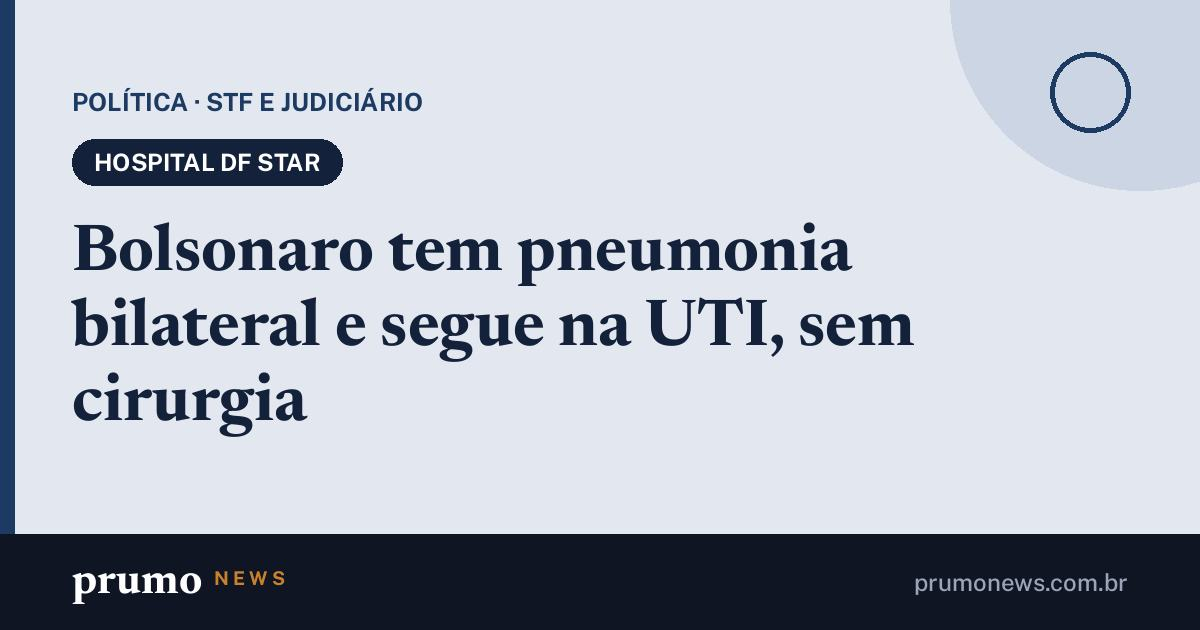
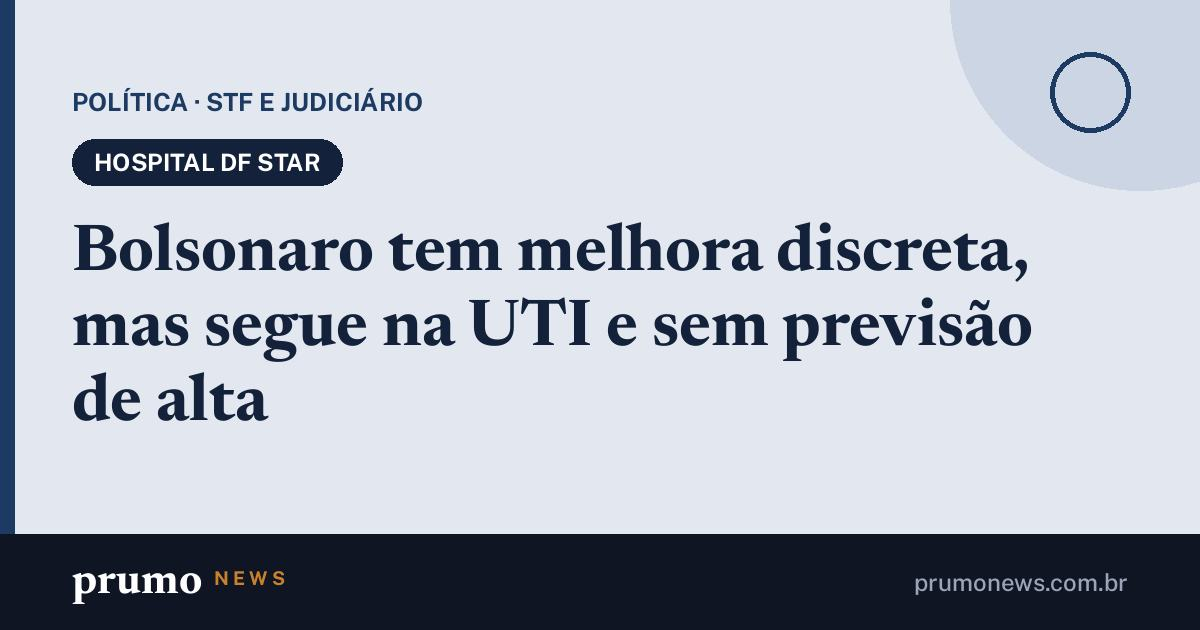
Páginas de compartilhamento 24/11 14h51

Changed region(s): [[0.0617, 0.3317, 0.8633, 0.6937]]

diff --git a/m/caso-master.html b/m/caso-master.html
@@ -3,20 +3,20 @@
 <head>
 <meta charset="utf-8">
 <meta name="viewport" content="width=device-width, initial-scale=1">
-<title>Novo pede ao STF afastamento de chefes da PF no caso Master · Prumo News</title>
-<meta name="description" content="O Novo diz que a troca de delegados do caso é &quot;clara anomalia institucional&quot;; a disputa pela relatoria segue no STF.">
-<link rel="canonical" href="https://prumonews.com.br/m/novo-pede-ao-stf-afastamento-de-chefes-da-pf-no-caso-master.html">
+<title>Nunes Marques é sorteado relator de pedido de Vorcaro contra Fachin no caso Master · Prumo News</title>
+<meta name="description" content="A defesa de Vorcaro questiona a competência da Presidência do STF e pede a revogação da prisão preventiva.">
+<link rel="canonical" href="https://prumonews.com.br/m/nunes-marques-e-sorteado-relator-de-pedido-de-vorcaro-contra-fachin-no.html">
 <meta property="og:type" content="article">
 <meta property="og:site_name" content="Prumo News">
 <meta property="og:locale" content="pt_BR">
-<meta property="og:title" content="Novo pede ao STF afastamento de chefes da PF no caso Master">
-<meta property="og:description" content="O Novo diz que a troca de delegados do caso é &quot;clara anomalia institucional&quot;; a disputa pela relatoria segue no STF.">
-<meta property="og:url" content="https://prumonews.com.br/m/novo-pede-ao-stf-afastamento-de-chefes-da-pf-no-caso-master.html">
-<meta property="og:image" content="https://upload.wikimedia.org/wikipedia/commons/thumb/7/73/Supremo_Tribunal_Federal_%281091707775%29.jpg/960px-Supremo_Tribunal_Federal_%281091707775%29.jpg">
+<meta property="og:title" content="Nunes Marques é sorteado relator de pedido de Vorcaro contra Fachin no caso Master">
+<meta property="og:description" content="A defesa de Vorcaro questiona a competência da Presidência do STF e pede a revogação da prisão preventiva.">
+<meta property="og:url" content="https://prumonews.com.br/m/nunes-marques-e-sorteado-relator-de-pedido-de-vorcaro-contra-fachin-no.html">
+<meta property="og:image" content="https://upload.wikimedia.org/wikipedia/commons/thumb/c/cc/CCJ_-_Comiss%C3%A3o_de_Constitui%C3%A7%C3%A3o%2C_Justi%C3%A7a_e_Cidadania_-_sabatina_Kassio_Nunes_Marques_01_%28cropped%29.jpg/960px-CCJ_-_Comiss%C3%A3o_de_Constitui%C3%A7%C3%A3o%2C_Justi%C3%A7a_e_Cidadania_-_sabatina_Kassio_Nunes_Marques_01_%28cropped%29.jpg">
 <meta name="twitter:card" content="summary_large_image">
 <meta name="theme-color" content="#0f1522">
 <script>location.replace("/#m=caso-master")</script>
 <style>body{margin:0;font:16px/1.5 system-ui,sans-serif;background:#0f1522;color:#e8ecf2;display:grid;place-items:center;min-height:100vh;padding:24px;box-sizing:border-box;text-align:center}a{color:#e6b673}</style>
 </head>
-<body><p><a href="/#m=caso-master">Novo pede ao STF afastamento de chefes da PF no caso Master</a><br>Abrindo no Prumo News…</p></body>
+<body><p><a href="/#m=caso-master">Nunes Marques é sorteado relator de pedido de Vorcaro contra Fachin no caso Master</a><br>Abrindo no Prumo News…</p></body>
 </html>

diff --git a/m/bolsonaro-hospital-dores-abdominais.html b/m/bolsonaro-hospital-dores-abdominais.html
@@ -3,16 +3,16 @@
 <head>
 <meta charset="utf-8">
 <meta name="viewport" content="width=device-width, initial-scale=1">
-<title>Bolsonaro tem pneumonia bilateral e segue na UTI, sem cirurgia · Prumo News</title>
-<meta name="description" content="Internado desde sexta (20), o ex-presidente segue estável, em tratamento clínico, e não há previsão de alta.">
-<link rel="canonical" href="https://prumonews.com.br/m/bolsonaro-tem-pneumonia-bilateral-e-segue-na-uti-sem-cirurgia.html">
+<title>Bolsonaro tem melhora discreta, mas segue na UTI e sem previsão de alta · Prumo News</title>
+<meta name="description" content="Internado desde sexta (20), o ex-presidente tem melhora discreta no boletim de terça (24), segue na UTI e não tem previsão de alta.">
+<link rel="canonical" href="https://prumonews.com.br/m/bolsonaro-tem-melhora-discreta-mas-segue-na-uti-e-sem-previsao-de-alta.html">
 <meta property="og:type" content="article">
 <meta property="og:site_name" content="Prumo News">
 <meta property="og:locale" content="pt_BR">
-<meta property="og:title" content="Bolsonaro tem pneumonia bilateral e segue na UTI, sem cirurgia">
-<meta property="og:description" content="Internado desde sexta (20), o ex-presidente segue estável, em tratamento clínico, e não há previsão de alta.">
-<meta property="og:url" content="https://prumonews.com.br/m/bolsonaro-tem-pneumonia-bilateral-e-segue-na-uti-sem-cirurgia.html">
-<meta property="og:image" content="https://prumonews.com.br/m/og/bolsonaro-hospital-dores-abdominais.jpg?v=149e2994c5">
+<meta property="og:title" content="Bolsonaro tem melhora discreta, mas segue na UTI e sem previsão de alta">
+<meta property="og:description" content="Internado desde sexta (20), o ex-presidente tem melhora discreta no boletim de terça (24), segue na UTI e não tem previsão de alta.">
+<meta property="og:url" content="https://prumonews.com.br/m/bolsonaro-tem-melhora-discreta-mas-segue-na-uti-e-sem-previsao-de-alta.html">
+<meta property="og:image" content="https://prumonews.com.br/m/og/bolsonaro-hospital-dores-abdominais.jpg?v=270f75d83e">
 <meta property="og:image:width" content="1200">
 <meta property="og:image:height" content="630">
 <meta name="twitter:card" content="summary_large_image">
@@ -20,5 +20,5 @@
 <script>location.replace("/#m=bolsonaro-hospital-dores-abdominais")</script>
 <style>body{margin:0;font:16px/1.5 system-ui,sans-serif;background:#0f1522;color:#e8ecf2;display:grid;place-items:center;min-height:100vh;padding:24px;box-sizing:border-box;text-align:center}a{color:#e6b673}</style>
 </head>
-<body><p><a href="/#m=bolsonaro-hospital-dores-abdominais">Bolsonaro tem pneumonia bilateral e segue na UTI, sem cirurgia</a><br>Abrindo no Prumo News…</p></body>
+<body><p><a href="/#m=bolsonaro-hospital-dores-abdominais">Bolsonaro tem melhora discreta, mas segue na UTI e sem previsão de alta</a><br>Abrindo no Prumo News…</p></body>
 </html>

diff --git a/m/decreto-6x1-adiado.html b/m/decreto-6x1-adiado.html
@@ -3,20 +3,20 @@
 <head>
 <meta charset="utf-8">
 <meta name="viewport" content="width=device-width, initial-scale=1">
-<title>Portaria do Trabalho detalha a 6×1; AGU pede ao STF que derrube liminar · Prumo News</title>
-<meta name="description" content="A portaria de segunda (23) trata de folgas, 12x36 e horas extras; a liminar de Dino mantém 42 horas em 16/12.">
-<link rel="canonical" href="https://prumonews.com.br/m/portaria-do-trabalho-detalha-a-6x1-agu-pede-ao-stf-que-derrube-liminar.html">
+<title>Marinho: &quot;ninguém vai morrer&quot; se comércio fechar um dia; fim da 6×1 vale em 16/12 · Prumo News</title>
+<meta name="description" content="Marinho rebate as empresas na terça (24); a escala 5x2 começa em 16/12 e a AGU pede ao STF que derrube a liminar de Dino.">
+<link rel="canonical" href="https://prumonews.com.br/m/marinho-ninguem-vai-morrer-se-comercio-fechar-um-dia-fim-da-6x1-vale.html">
 <meta property="og:type" content="article">
 <meta property="og:site_name" content="Prumo News">
 <meta property="og:locale" content="pt_BR">
-<meta property="og:title" content="Portaria do Trabalho detalha a 6×1; AGU pede ao STF que derrube liminar">
-<meta property="og:description" content="A portaria de segunda (23) trata de folgas, 12x36 e horas extras; a liminar de Dino mantém 42 horas em 16/12.">
-<meta property="og:url" content="https://prumonews.com.br/m/portaria-do-trabalho-detalha-a-6x1-agu-pede-ao-stf-que-derrube-liminar.html">
+<meta property="og:title" content="Marinho: &quot;ninguém vai morrer&quot; se comércio fechar um dia; fim da 6×1 vale em 16/12">
+<meta property="og:description" content="Marinho rebate as empresas na terça (24); a escala 5x2 começa em 16/12 e a AGU pede ao STF que derrube a liminar de Dino.">
+<meta property="og:url" content="https://prumonews.com.br/m/marinho-ninguem-vai-morrer-se-comercio-fechar-um-dia-fim-da-6x1-vale.html">
 <meta property="og:image" content="https://upload.wikimedia.org/wikipedia/commons/thumb/4/4a/Fachada_do_Pal%C3%A1cio_do_Planalto_-_49728086097.jpg/960px-Fachada_do_Pal%C3%A1cio_do_Planalto_-_49728086097.jpg">
 <meta name="twitter:card" content="summary_large_image">
 <meta name="theme-color" content="#0f1522">
 <script>location.replace("/#m=decreto-6x1-adiado")</script>
 <style>body{margin:0;font:16px/1.5 system-ui,sans-serif;background:#0f1522;color:#e8ecf2;display:grid;place-items:center;min-height:100vh;padding:24px;box-sizing:border-box;text-align:center}a{color:#e6b673}</style>
 </head>
-<body><p><a href="/#m=decreto-6x1-adiado">Portaria do Trabalho detalha a 6×1; AGU pede ao STF que derrube liminar</a><br>Abrindo no Prumo News…</p></body>
+<body><p><a href="/#m=decreto-6x1-adiado">Marinho: &quot;ninguém vai morrer&quot; se comércio fechar um dia; fim da 6×1 vale em 16/12</a><br>Abrindo no Prumo News…</p></body>
 </html>

diff --git a/m/ajuste-fiscal-lula-4.html b/m/ajuste-fiscal-lula-4.html
@@ -3,16 +3,16 @@
 <head>
 <meta charset="utf-8">
 <meta name="viewport" content="width=device-width, initial-scale=1">
-<title>Câmara aprova ajuste fiscal por 353 a 128; texto vai à sanção · Prumo News</title>
+<title>Câmara aprova ajuste fiscal por 353 a 128; pacote limita gastos e vai à sanção · Prumo News</title>
 <meta name="description" content="O texto do Senado passou sem alterações e segue para a sanção; parte da bancada do PT não votou a favor.">
-<link rel="canonical" href="https://prumonews.com.br/m/camara-aprova-ajuste-fiscal-por-353-a-128-texto-vai-a-sancao.html">
+<link rel="canonical" href="https://prumonews.com.br/m/camara-aprova-ajuste-fiscal-por-353-a-128-pacote-limita-gastos-e-vai-a.html">
 <meta property="og:type" content="article">
 <meta property="og:site_name" content="Prumo News">
 <meta property="og:locale" content="pt_BR">
-<meta property="og:title" content="Câmara aprova ajuste fiscal por 353 a 128; texto vai à sanção">
+<meta property="og:title" content="Câmara aprova ajuste fiscal por 353 a 128; pacote limita gastos e vai à sanção">
 <meta property="og:description" content="O texto do Senado passou sem alterações e segue para a sanção; parte da bancada do PT não votou a favor.">
-<meta property="og:url" content="https://prumonews.com.br/m/camara-aprova-ajuste-fiscal-por-353-a-128-texto-vai-a-sancao.html">
-<meta property="og:image" content="https://prumonews.com.br/m/og/ajuste-fiscal-lula-4.jpg?v=03558c6164">
+<meta property="og:url" content="https://prumonews.com.br/m/camara-aprova-ajuste-fiscal-por-353-a-128-pacote-limita-gastos-e-vai-a.html">
+<meta property="og:image" content="https://prumonews.com.br/m/og/ajuste-fiscal-lula-4.jpg?v=403e5b6f56">
 <meta property="og:image:width" content="1200">
 <meta property="og:image:height" content="630">
 <meta name="twitter:card" content="summary_large_image">
@@ -20,5 +20,5 @@
 <script>location.replace("/#m=ajuste-fiscal-lula-4")</script>
 <style>body{margin:0;font:16px/1.5 system-ui,sans-serif;background:#0f1522;color:#e8ecf2;display:grid;place-items:center;min-height:100vh;padding:24px;box-sizing:border-box;text-align:center}a{color:#e6b673}</style>
 </head>
-<body><p><a href="/#m=ajuste-fiscal-lula-4">Câmara aprova ajuste fiscal por 353 a 128; texto vai à sanção</a><br>Abrindo no Prumo News…</p></body>
+<body><p><a href="/#m=ajuste-fiscal-lula-4">Câmara aprova ajuste fiscal por 353 a 128; pacote limita gastos e vai à sanção</a><br>Abrindo no Prumo News…</p></body>
 </html>

diff --git a/m/senado-estatuto-aprendiz.html b/m/senado-estatuto-aprendiz.html
@@ -3,20 +3,20 @@
 <head>
 <meta charset="utf-8">
 <meta name="viewport" content="width=device-width, initial-scale=1">
-<title>Senado tem na pauta o Estatuto do Aprendiz e o Plano de Cultura · Prumo News</title>
+<title>Estatuto do Aprendiz e Plano de Cultura entram na pauta do Senado de terça (24) · Prumo News</title>
 <meta name="description" content="O Estatuto do Aprendiz muda a contratação de jovens de 14 a 24 anos incompletos; o plano de cultura define metas até 2036.">
-<link rel="canonical" href="https://prumonews.com.br/m/senado-tem-na-pauta-o-estatuto-do-aprendiz-e-o-plano-de-cultura.html">
+<link rel="canonical" href="https://prumonews.com.br/m/estatuto-do-aprendiz-e-plano-de-cultura-entram-na-pauta-do-senado-de.html">
 <meta property="og:type" content="article">
 <meta property="og:site_name" content="Prumo News">
 <meta property="og:locale" content="pt_BR">
-<meta property="og:title" content="Senado tem na pauta o Estatuto do Aprendiz e o Plano de Cultura">
+<meta property="og:title" content="Estatuto do Aprendiz e Plano de Cultura entram na pauta do Senado de terça (24)">
 <meta property="og:description" content="O Estatuto do Aprendiz muda a contratação de jovens de 14 a 24 anos incompletos; o plano de cultura define metas até 2036.">
-<meta property="og:url" content="https://prumonews.com.br/m/senado-tem-na-pauta-o-estatuto-do-aprendiz-e-o-plano-de-cultura.html">
+<meta property="og:url" content="https://prumonews.com.br/m/estatuto-do-aprendiz-e-plano-de-cultura-entram-na-pauta-do-senado-de.html">
 <meta property="og:image" content="https://upload.wikimedia.org/wikipedia/commons/thumb/1/12/Plen%C3%A1rio_do_Senado_%2854300785080%29.jpg/960px-Plen%C3%A1rio_do_Senado_%2854300785080%29.jpg">
 <meta name="twitter:card" content="summary_large_image">
 <meta name="theme-color" content="#0f1522">
 <script>location.replace("/#m=senado-estatuto-aprendiz")</script>
 <style>body{margin:0;font:16px/1.5 system-ui,sans-serif;background:#0f1522;color:#e8ecf2;display:grid;place-items:center;min-height:100vh;padding:24px;box-sizing:border-box;text-align:center}a{color:#e6b673}</style>
 </head>
-<body><p><a href="/#m=senado-estatuto-aprendiz">Senado tem na pauta o Estatuto do Aprendiz e o Plano de Cultura</a><br>Abrindo no Prumo News…</p></body>
+<body><p><a href="/#m=senado-estatuto-aprendiz">Estatuto do Aprendiz e Plano de Cultura entram na pauta do Senado de terça (24)</a><br>Abrindo no Prumo News…</p></body>
 </html>

diff --git a/m/nunes-marques-e-sorteado-relator-de-pedido-de-vorcaro-contra-fachin-no.html b/m/nunes-marques-e-sorteado-relator-de-pedido-de-vorcaro-contra-fachin-no.html
@@ -1,0 +1,22 @@
+<!doctype html>
+<html lang="pt-BR">
+<head>
+<meta charset="utf-8">
+<meta name="viewport" content="width=device-width, initial-scale=1">
+<title>Nunes Marques é sorteado relator de pedido de Vorcaro contra Fachin no caso Master · Prumo News</title>
+<meta name="description" content="A defesa de Vorcaro questiona a competência da Presidência do STF e pede a revogação da prisão preventiva.">
+<link rel="canonical" href="https://prumonews.com.br/m/nunes-marques-e-sorteado-relator-de-pedido-de-vorcaro-contra-fachin-no.html">
+<meta property="og:type" content="article">
+<meta property="og:site_name" content="Prumo News">
+<meta property="og:locale" content="pt_BR">
+<meta property="og:title" content="Nunes Marques é sorteado relator de pedido de Vorcaro contra Fachin no caso Master">
+<meta property="og:description" content="A defesa de Vorcaro questiona a competência da Presidência do STF e pede a revogação da prisão preventiva.">
+<meta property="og:url" content="https://prumonews.com.br/m/nunes-marques-e-sorteado-relator-de-pedido-de-vorcaro-contra-fachin-no.html">
+<meta property="og:image" content="https://upload.wikimedia.org/wikipedia/commons/thumb/c/cc/CCJ_-_Comiss%C3%A3o_de_Constitui%C3%A7%C3%A3o%2C_Justi%C3%A7a_e_Cidadania_-_sabatina_Kassio_Nunes_Marques_01_%28cropped%29.jpg/960px-CCJ_-_Comiss%C3%A3o_de_Constitui%C3%A7%C3%A3o%2C_Justi%C3%A7a_e_Cidadania_-_sabatina_Kassio_Nunes_Marques_01_%28cropped%29.jpg">
+<meta name="twitter:card" content="summary_large_image">
+<meta name="theme-color" content="#0f1522">
+<script>location.replace("/#m=caso-master")</script>
+<style>body{margin:0;font:16px/1.5 system-ui,sans-serif;background:#0f1522;color:#e8ecf2;display:grid;place-items:center;min-height:100vh;padding:24px;box-sizing:border-box;text-align:center}a{color:#e6b673}</style>
+</head>
+<body><p><a href="/#m=caso-master">Nunes Marques é sorteado relator de pedido de Vorcaro contra Fachin no caso Master</a><br>Abrindo no Prumo News…</p></body>
+</html>

diff --git a/m/cni-intencao-investimento-industria.html b/m/cni-intencao-investimento-industria.html
@@ -1,0 +1,22 @@
+<!doctype html>
+<html lang="pt-BR">
+<head>
+<meta charset="utf-8">
+<meta name="viewport" content="width=device-width, initial-scale=1">
+<title>Intenção de investimento da indústria cai ao menor nível em seis anos · Prumo News</title>
+<meta name="description" content="O pessimismo dos empresários aumentou, segundo a CNI.">
+<link rel="canonical" href="https://prumonews.com.br/m/intencao-de-investimento-da-industria-cai-ao-menor-nivel-em-seis-anos.html">
+<meta property="og:type" content="article">
+<meta property="og:site_name" content="Prumo News">
+<meta property="og:locale" content="pt_BR">
+<meta property="og:title" content="Intenção de investimento da indústria cai ao menor nível em seis anos">
+<meta property="og:description" content="O pessimismo dos empresários aumentou, segundo a CNI.">
+<meta property="og:url" content="https://prumonews.com.br/m/intencao-de-investimento-da-industria-cai-ao-menor-nivel-em-seis-anos.html">
+<meta property="og:image" content="https://upload.wikimedia.org/wikipedia/commons/thumb/6/64/02.06.2023_-_Cerim%C3%B4nia_de_inaugura%C3%A7%C3%A3o_e_visita_%C3%A0_nova_linha_de_produ%C3%A7%C3%A3o_da_f%C3%A1brica_da_Eletra_%2852946820437%29.jpg/960px-02.06.2023_-_Cerim%C3%B4nia_de_inaugura%C3%A7%C3%A3o_e_visita_%C3%A0_nova_linha_de_produ%C3%A7%C3%A3o_da_f%C3%A1brica_da_Eletra_%2852946820437%29.jpg">
+<meta name="twitter:card" content="summary_large_image">
+<meta name="theme-color" content="#0f1522">
+<script>location.replace("/#m=cni-intencao-investimento-industria")</script>
+<style>body{margin:0;font:16px/1.5 system-ui,sans-serif;background:#0f1522;color:#e8ecf2;display:grid;place-items:center;min-height:100vh;padding:24px;box-sizing:border-box;text-align:center}a{color:#e6b673}</style>
+</head>
+<body><p><a href="/#m=cni-intencao-investimento-industria">Intenção de investimento da indústria cai ao menor nível em seis anos</a><br>Abrindo no Prumo News…</p></body>
+</html>

diff --git a/m/intencao-de-investimento-da-industria-cai-ao-menor-nivel-em-seis-anos.html b/m/intencao-de-investimento-da-industria-cai-ao-menor-nivel-em-seis-anos.html
@@ -1,0 +1,22 @@
+<!doctype html>
+<html lang="pt-BR">
+<head>
+<meta charset="utf-8">
+<meta name="viewport" content="width=device-width, initial-scale=1">
+<title>Intenção de investimento da indústria cai ao menor nível em seis anos · Prumo News</title>
+<meta name="description" content="O pessimismo dos empresários aumentou, segundo a CNI.">
+<link rel="canonical" href="https://prumonews.com.br/m/intencao-de-investimento-da-industria-cai-ao-menor-nivel-em-seis-anos.html">
+<meta property="og:type" content="article">
+<meta property="og:site_name" content="Prumo News">
+<meta property="og:locale" content="pt_BR">
+<meta property="og:title" content="Intenção de investimento da indústria cai ao menor nível em seis anos">
+<meta property="og:description" content="O pessimismo dos empresários aumentou, segundo a CNI.">
+<meta property="og:url" content="https://prumonews.com.br/m/intencao-de-investimento-da-industria-cai-ao-menor-nivel-em-seis-anos.html">
+<meta property="og:image" content="https://upload.wikimedia.org/wikipedia/commons/thumb/6/64/02.06.2023_-_Cerim%C3%B4nia_de_inaugura%C3%A7%C3%A3o_e_visita_%C3%A0_nova_linha_de_produ%C3%A7%C3%A3o_da_f%C3%A1brica_da_Eletra_%2852946820437%29.jpg/960px-02.06.2023_-_Cerim%C3%B4nia_de_inaugura%C3%A7%C3%A3o_e_visita_%C3%A0_nova_linha_de_produ%C3%A7%C3%A3o_da_f%C3%A1brica_da_Eletra_%2852946820437%29.jpg">
+<meta name="twitter:card" content="summary_large_image">
+<meta name="theme-color" content="#0f1522">
+<script>location.replace("/#m=cni-intencao-investimento-industria")</script>
+<style>body{margin:0;font:16px/1.5 system-ui,sans-serif;background:#0f1522;color:#e8ecf2;display:grid;place-items:center;min-height:100vh;padding:24px;box-sizing:border-box;text-align:center}a{color:#e6b673}</style>
+</head>
+<body><p><a href="/#m=cni-intencao-investimento-industria">Intenção de investimento da indústria cai ao menor nível em seis anos</a><br>Abrindo no Prumo News…</p></body>
+</html>

diff --git a/m/bolsonaro-tem-melhora-discreta-mas-segue-na-uti-e-sem-previsao-de-alta.html b/m/bolsonaro-tem-melhora-discreta-mas-segue-na-uti-e-sem-previsao-de-alta.html
@@ -1,0 +1,24 @@
+<!doctype html>
+<html lang="pt-BR">
+<head>
+<meta charset="utf-8">
+<meta name="viewport" content="width=device-width, initial-scale=1">
+<title>Bolsonaro tem melhora discreta, mas segue na UTI e sem previsão de alta · Prumo News</title>
+<meta name="description" content="Internado desde sexta (20), o ex-presidente tem melhora discreta no boletim de terça (24), segue na UTI e não tem previsão de alta.">
+<link rel="canonical" href="https://prumonews.com.br/m/bolsonaro-tem-melhora-discreta-mas-segue-na-uti-e-sem-previsao-de-alta.html">
+<meta property="og:type" content="article">
+<meta property="og:site_name" content="Prumo News">
+<meta property="og:locale" content="pt_BR">
+<meta property="og:title" content="Bolsonaro tem melhora discreta, mas segue na UTI e sem previsão de alta">
+<meta property="og:description" content="Internado desde sexta (20), o ex-presidente tem melhora discreta no boletim de terça (24), segue na UTI e não tem previsão de alta.">
+<meta property="og:url" content="https://prumonews.com.br/m/bolsonaro-tem-melhora-discreta-mas-segue-na-uti-e-sem-previsao-de-alta.html">
+<meta property="og:image" content="https://prumonews.com.br/m/og/bolsonaro-hospital-dores-abdominais.jpg?v=270f75d83e">
+<meta property="og:image:width" content="1200">
+<meta property="og:image:height" content="630">
+<meta name="twitter:card" content="summary_large_image">
+<meta name="theme-color" content="#0f1522">
+<script>location.replace("/#m=bolsonaro-hospital-dores-abdominais")</script>
+<style>body{margin:0;font:16px/1.5 system-ui,sans-serif;background:#0f1522;color:#e8ecf2;display:grid;place-items:center;min-height:100vh;padding:24px;box-sizing:border-box;text-align:center}a{color:#e6b673}</style>
+</head>
+<body><p><a href="/#m=bolsonaro-hospital-dores-abdominais">Bolsonaro tem melhora discreta, mas segue na UTI e sem previsão de alta</a><br>Abrindo no Prumo News…</p></body>
+</html>

diff --git a/m/marinho-ninguem-vai-morrer-se-comercio-fechar-um-dia-fim-da-6x1-vale.html b/m/marinho-ninguem-vai-morrer-se-comercio-fechar-um-dia-fim-da-6x1-vale.html
@@ -1,0 +1,22 @@
+<!doctype html>
+<html lang="pt-BR">
+<head>
+<meta charset="utf-8">
+<meta name="viewport" content="width=device-width, initial-scale=1">
+<title>Marinho: &quot;ninguém vai morrer&quot; se comércio fechar um dia; fim da 6×1 vale em 16/12 · Prumo News</title>
+<meta name="description" content="Marinho rebate as empresas na terça (24); a escala 5x2 começa em 16/12 e a AGU pede ao STF que derrube a liminar de Dino.">
+<link rel="canonical" href="https://prumonews.com.br/m/marinho-ninguem-vai-morrer-se-comercio-fechar-um-dia-fim-da-6x1-vale.html">
+<meta property="og:type" content="article">
+<meta property="og:site_name" content="Prumo News">
+<meta property="og:locale" content="pt_BR">
+<meta property="og:title" content="Marinho: &quot;ninguém vai morrer&quot; se comércio fechar um dia; fim da 6×1 vale em 16/12">
+<meta property="og:description" content="Marinho rebate as empresas na terça (24); a escala 5x2 começa em 16/12 e a AGU pede ao STF que derrube a liminar de Dino.">
+<meta property="og:url" content="https://prumonews.com.br/m/marinho-ninguem-vai-morrer-se-comercio-fechar-um-dia-fim-da-6x1-vale.html">
+<meta property="og:image" content="https://upload.wikimedia.org/wikipedia/commons/thumb/4/4a/Fachada_do_Pal%C3%A1cio_do_Planalto_-_49728086097.jpg/960px-Fachada_do_Pal%C3%A1cio_do_Planalto_-_49728086097.jpg">
+<meta name="twitter:card" content="summary_large_image">
+<meta name="theme-color" content="#0f1522">
+<script>location.replace("/#m=decreto-6x1-adiado")</script>
+<style>body{margin:0;font:16px/1.5 system-ui,sans-serif;background:#0f1522;color:#e8ecf2;display:grid;place-items:center;min-height:100vh;padding:24px;box-sizing:border-box;text-align:center}a{color:#e6b673}</style>
+</head>
+<body><p><a href="/#m=decreto-6x1-adiado">Marinho: &quot;ninguém vai morrer&quot; se comércio fechar um dia; fim da 6×1 vale em 16/12</a><br>Abrindo no Prumo News…</p></body>
+</html>

diff --git a/m/estatuto-do-aprendiz-e-plano-de-cultura-entram-na-pauta-do-senado-de.html b/m/estatuto-do-aprendiz-e-plano-de-cultura-entram-na-pauta-do-senado-de.html
@@ -1,0 +1,22 @@
+<!doctype html>
+<html lang="pt-BR">
+<head>
+<meta charset="utf-8">
+<meta name="viewport" content="width=device-width, initial-scale=1">
+<title>Estatuto do Aprendiz e Plano de Cultura entram na pauta do Senado de terça (24) · Prumo News</title>
+<meta name="description" content="O Estatuto do Aprendiz muda a contratação de jovens de 14 a 24 anos incompletos; o plano de cultura define metas até 2036.">
+<link rel="canonical" href="https://prumonews.com.br/m/estatuto-do-aprendiz-e-plano-de-cultura-entram-na-pauta-do-senado-de.html">
+<meta property="og:type" content="article">
+<meta property="og:site_name" content="Prumo News">
+<meta property="og:locale" content="pt_BR">
+<meta property="og:title" content="Estatuto do Aprendiz e Plano de Cultura entram na pauta do Senado de terça (24)">
+<meta property="og:description" content="O Estatuto do Aprendiz muda a contratação de jovens de 14 a 24 anos incompletos; o plano de cultura define metas até 2036.">
+<meta property="og:url" content="https://prumonews.com.br/m/estatuto-do-aprendiz-e-plano-de-cultura-entram-na-pauta-do-senado-de.html">
+<meta property="og:image" content="https://upload.wikimedia.org/wikipedia/commons/thumb/1/12/Plen%C3%A1rio_do_Senado_%2854300785080%29.jpg/960px-Plen%C3%A1rio_do_Senado_%2854300785080%29.jpg">
+<meta name="twitter:card" content="summary_large_image">
+<meta name="theme-color" content="#0f1522">
+<script>location.replace("/#m=senado-estatuto-aprendiz")</script>
+<style>body{margin:0;font:16px/1.5 system-ui,sans-serif;background:#0f1522;color:#e8ecf2;display:grid;place-items:center;min-height:100vh;padding:24px;box-sizing:border-box;text-align:center}a{color:#e6b673}</style>
+</head>
+<body><p><a href="/#m=senado-estatuto-aprendiz">Estatuto do Aprendiz e Plano de Cultura entram na pauta do Senado de terça (24)</a><br>Abrindo no Prumo News…</p></body>
+</html>

diff --git a/m/camara-aprova-ajuste-fiscal-por-353-a-128-pacote-limita-gastos-e-vai-a.html b/m/camara-aprova-ajuste-fiscal-por-353-a-128-pacote-limita-gastos-e-vai-a.html
@@ -1,0 +1,24 @@
+<!doctype html>
+<html lang="pt-BR">
+<head>
+<meta charset="utf-8">
+<meta name="viewport" content="width=device-width, initial-scale=1">
+<title>Câmara aprova ajuste fiscal por 353 a 128; pacote limita gastos e vai à sanção · Prumo News</title>
+<meta name="description" content="O texto do Senado passou sem alterações e segue para a sanção; parte da bancada do PT não votou a favor.">
+<link rel="canonical" href="https://prumonews.com.br/m/camara-aprova-ajuste-fiscal-por-353-a-128-pacote-limita-gastos-e-vai-a.html">
+<meta property="og:type" content="article">
+<meta property="og:site_name" content="Prumo News">
+<meta property="og:locale" content="pt_BR">
+<meta property="og:title" content="Câmara aprova ajuste fiscal por 353 a 128; pacote limita gastos e vai à sanção">
+<meta property="og:description" content="O texto do Senado passou sem alterações e segue para a sanção; parte da bancada do PT não votou a favor.">
+<meta property="og:url" content="https://prumonews.com.br/m/camara-aprova-ajuste-fiscal-por-353-a-128-pacote-limita-gastos-e-vai-a.html">
+<meta property="og:image" content="https://prumonews.com.br/m/og/ajuste-fiscal-lula-4.jpg?v=403e5b6f56">
+<meta property="og:image:width" content="1200">
+<meta property="og:image:height" content="630">
+<meta name="twitter:card" content="summary_large_image">
+<meta name="theme-color" content="#0f1522">
+<script>location.replace("/#m=ajuste-fiscal-lula-4")</script>
+<style>body{margin:0;font:16px/1.5 system-ui,sans-serif;background:#0f1522;color:#e8ecf2;display:grid;place-items:center;min-height:100vh;padding:24px;box-sizing:border-box;text-align:center}a{color:#e6b673}</style>
+</head>
+<body><p><a href="/#m=ajuste-fiscal-lula-4">Câmara aprova ajuste fiscal por 353 a 128; pacote limita gastos e vai à sanção</a><br>Abrindo no Prumo News…</p></body>
+</html>
